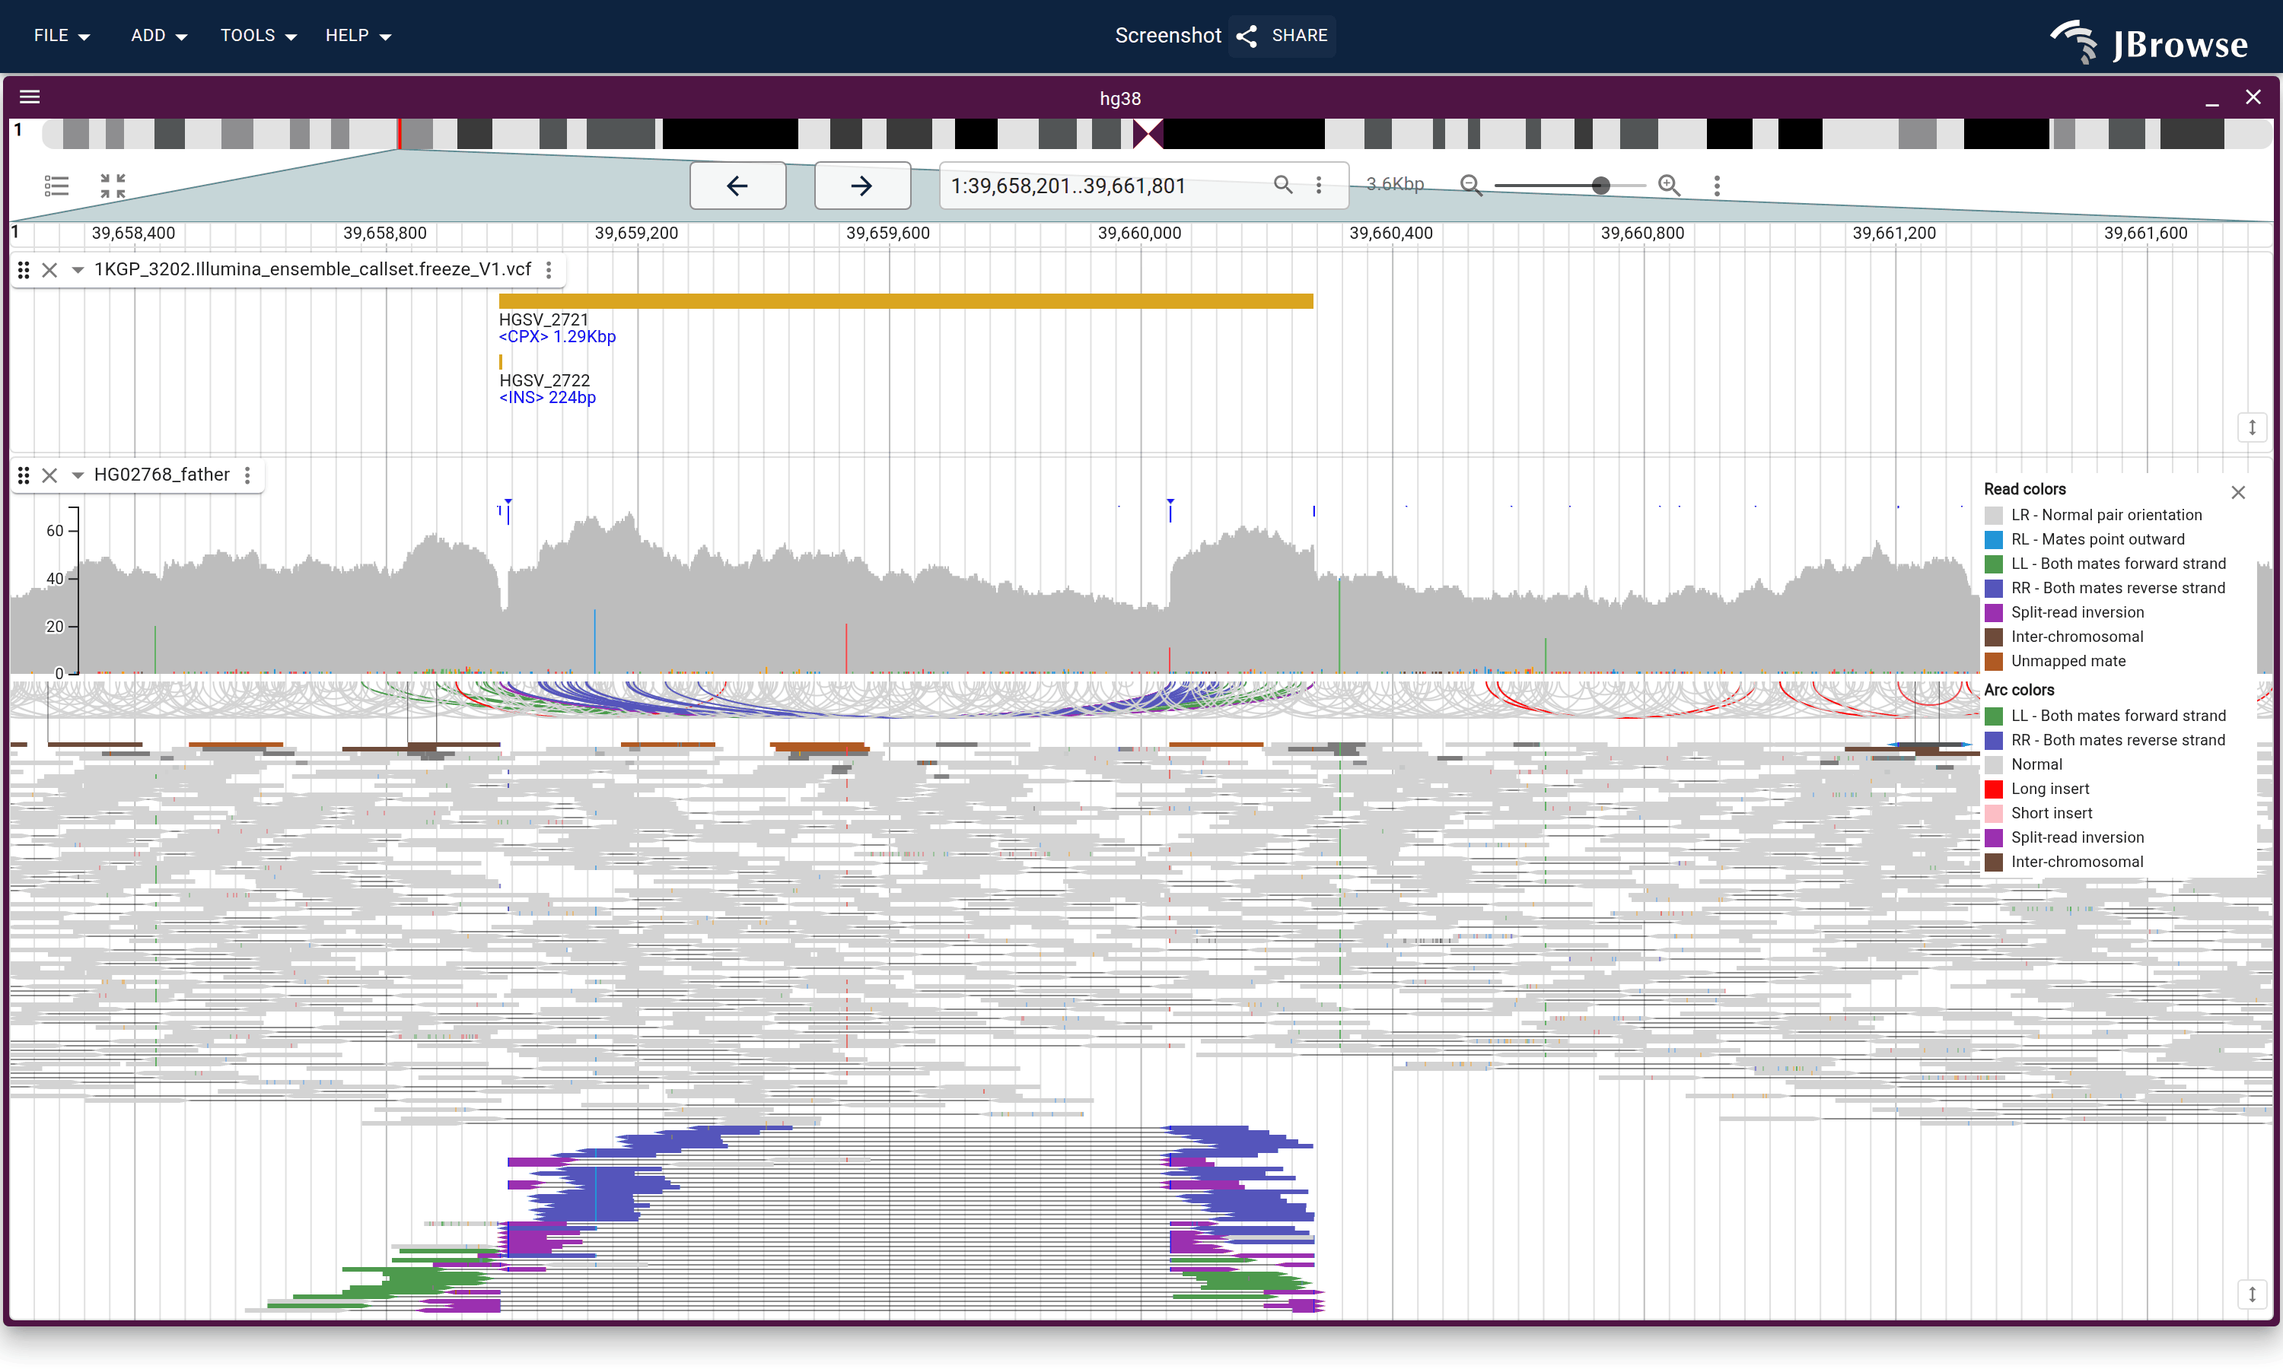
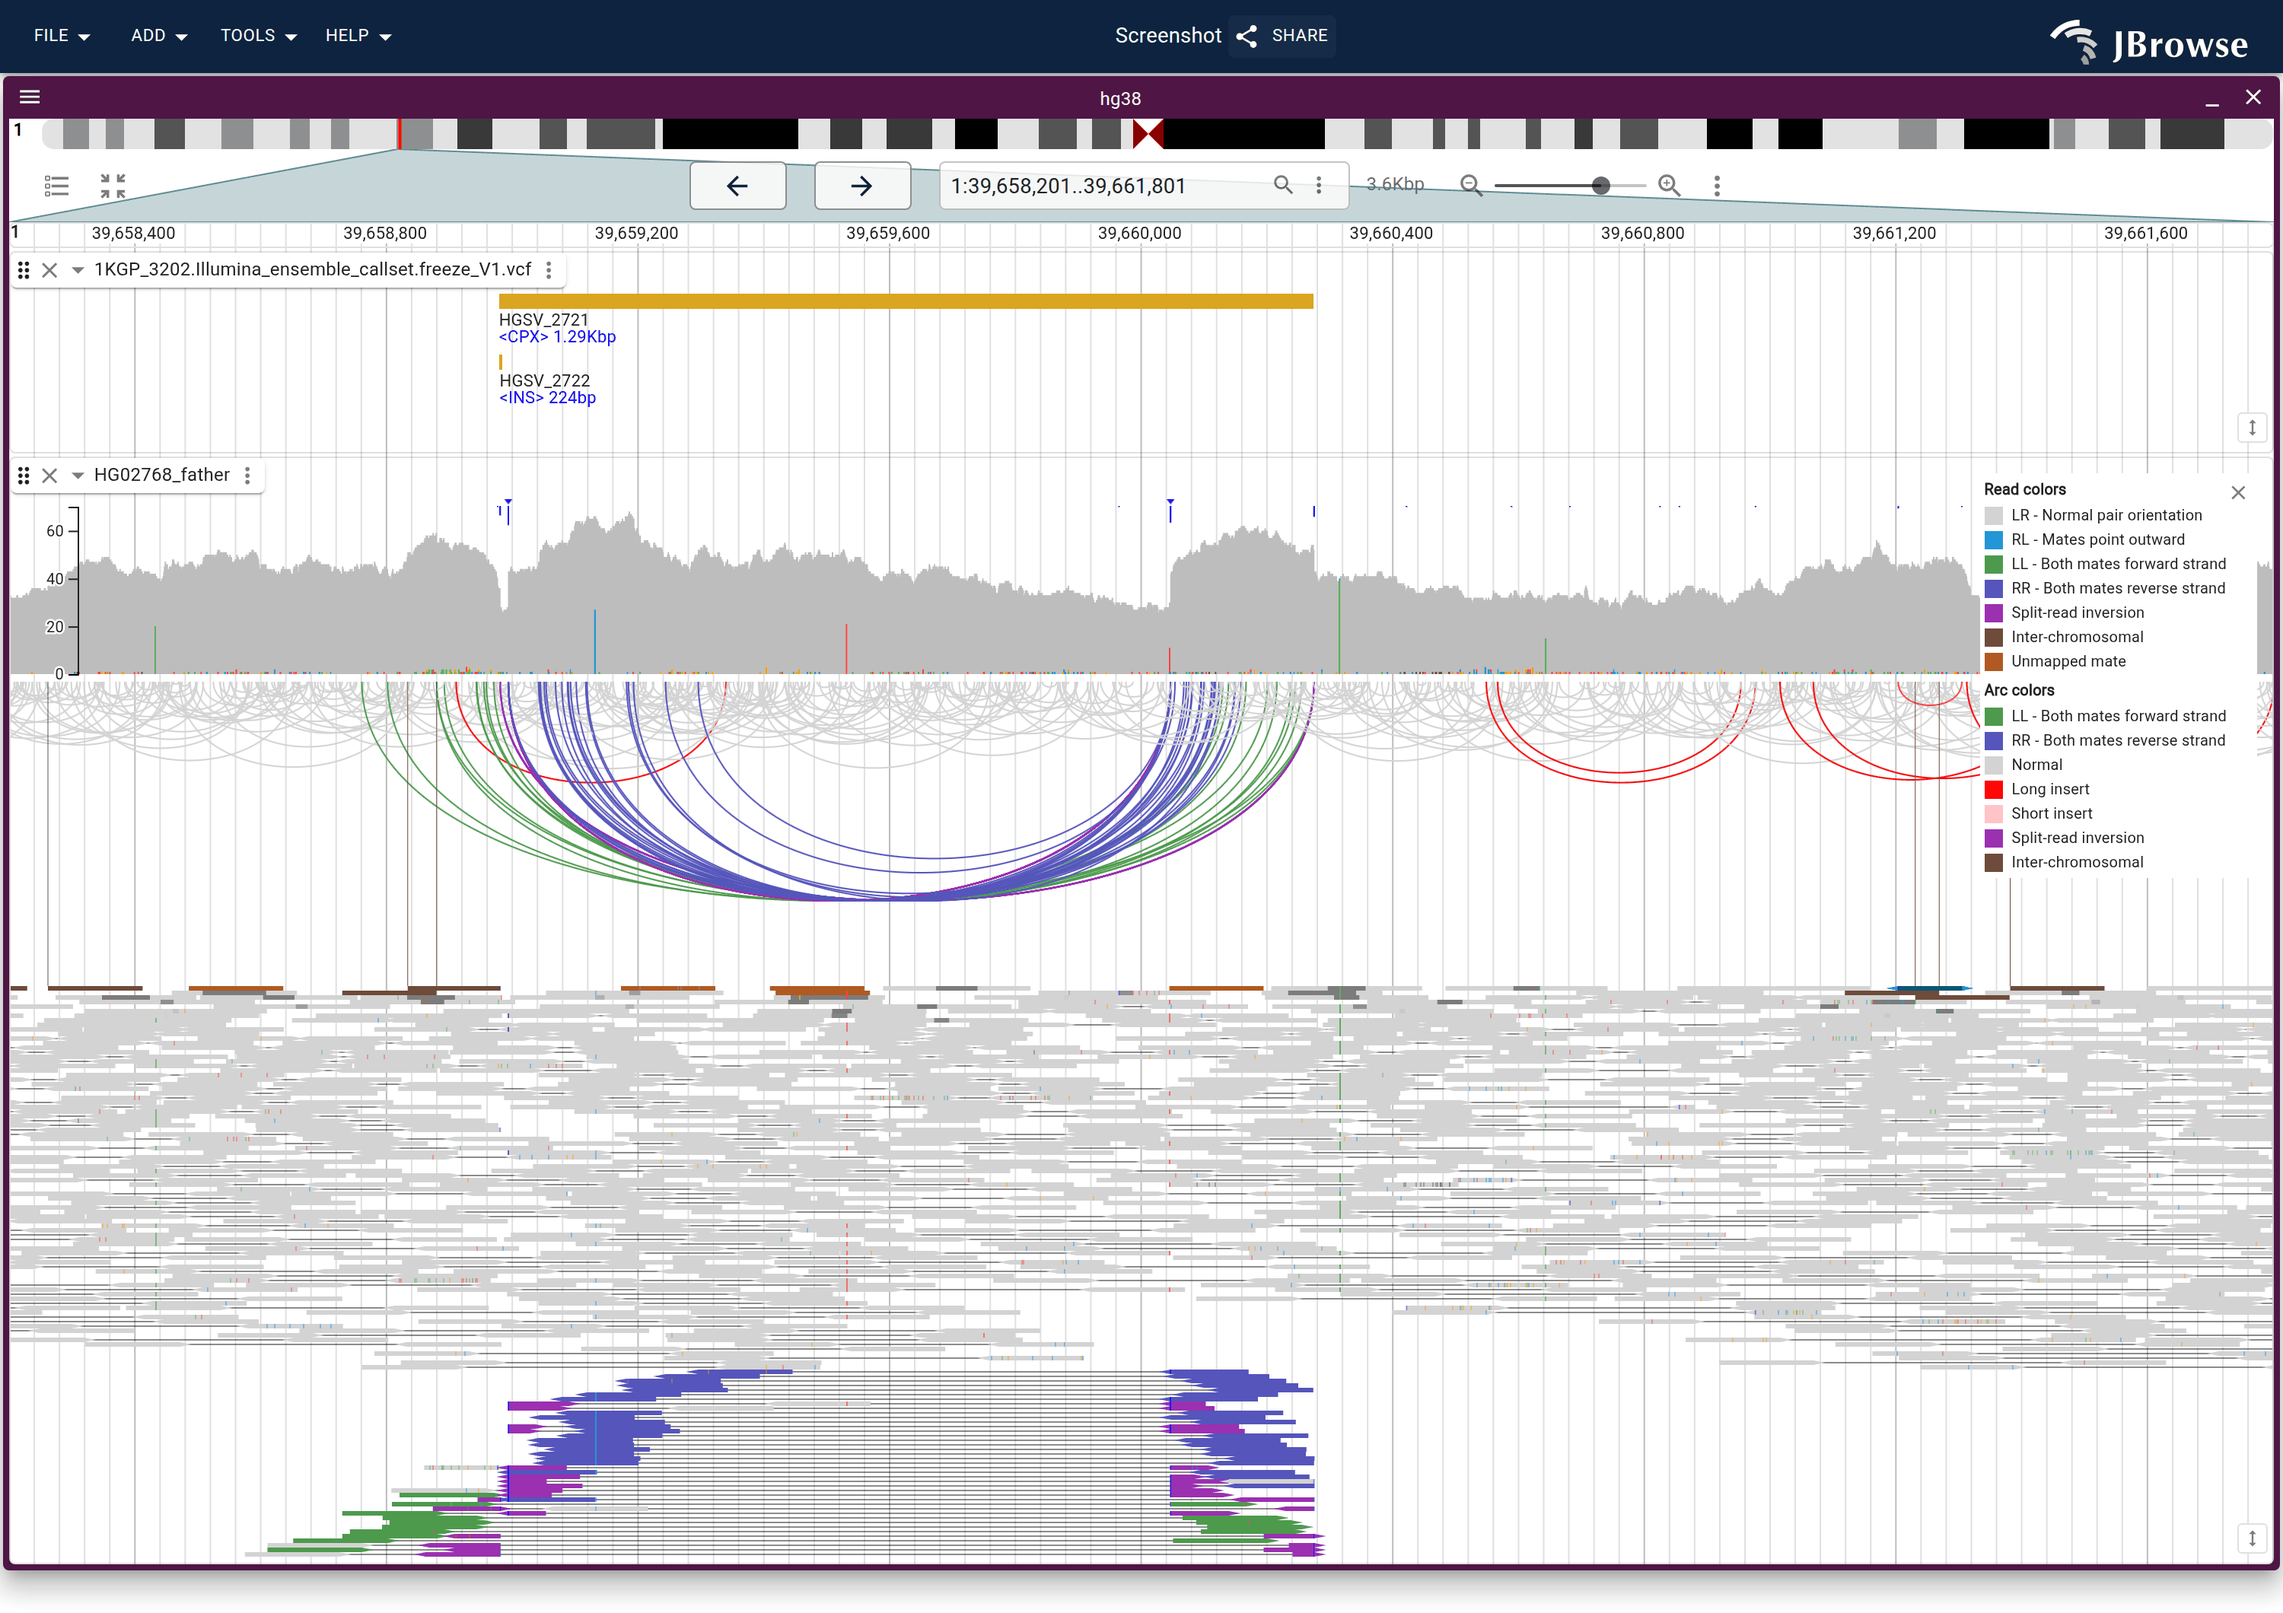
docs(figures): regenerate the three reworked screenshots
The arc band now resolves: the discordant LL/RR/long-insert pairs spanning the
duplication arc well above the concordant grey ones, where at 40px every arc was
clipped to the ceiling. The CDKN2A figure carries the tumor and normal coverage
rows in place of the HiFiCNV depth lane.

Nudges the two anchored callouts 50px in off the pileup track's left edge. The
anchor resolves to the track's true left margin, which is further left than the
viewport coordinate it replaced, so the pill borders were being clipped by the
app frame.

diff --git a/website/scripts/specs/sv.ts b/website/scripts/specs/sv.ts
@@ -432,6 +432,9 @@ export const svSpecs: ScreenshotSpec[] = [
           track: 'HG02768.final',
           locus: '1:39,658,200',
           fracY: 0,
+          // in off the track's left edge, so the pill's border clears the app
+          // frame rather than being clipped by it
+          dx: 50,
           dy: 360,
         },
         text: 'Green (LL), navy (RR), and magenta split reads flag the inverted segment.',
@@ -444,6 +447,9 @@ export const svSpecs: ScreenshotSpec[] = [
           track: 'HG02768.final',
           locus: '1:39,658,200',
           fracY: 0,
+          // in off the track's left edge, so the pill's border clears the app
+          // frame rather than being clipped by it
+          dx: 50,
           dy: 530,
         },
         text: 'Elevated coverage and arcs mark the duplicated copy.',
